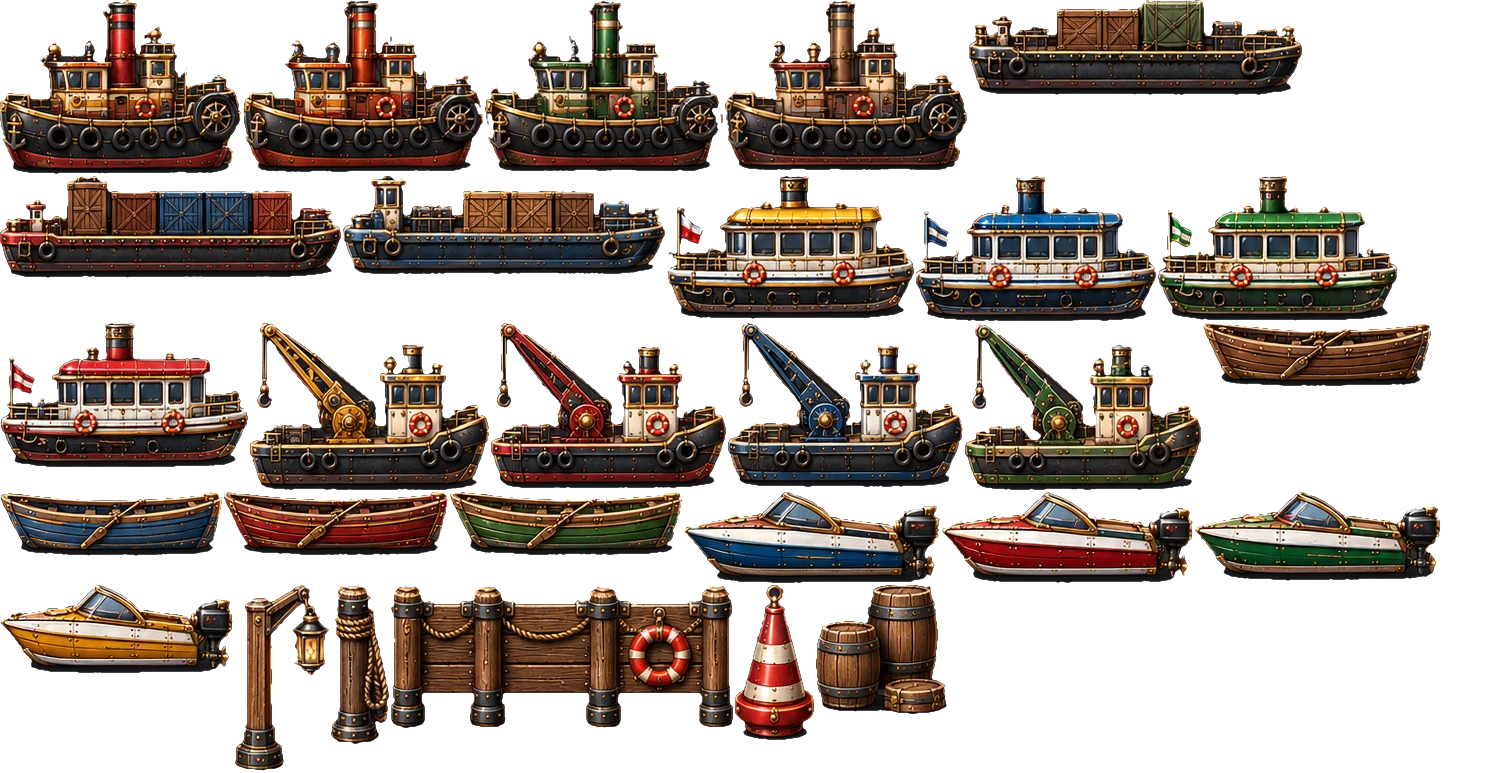
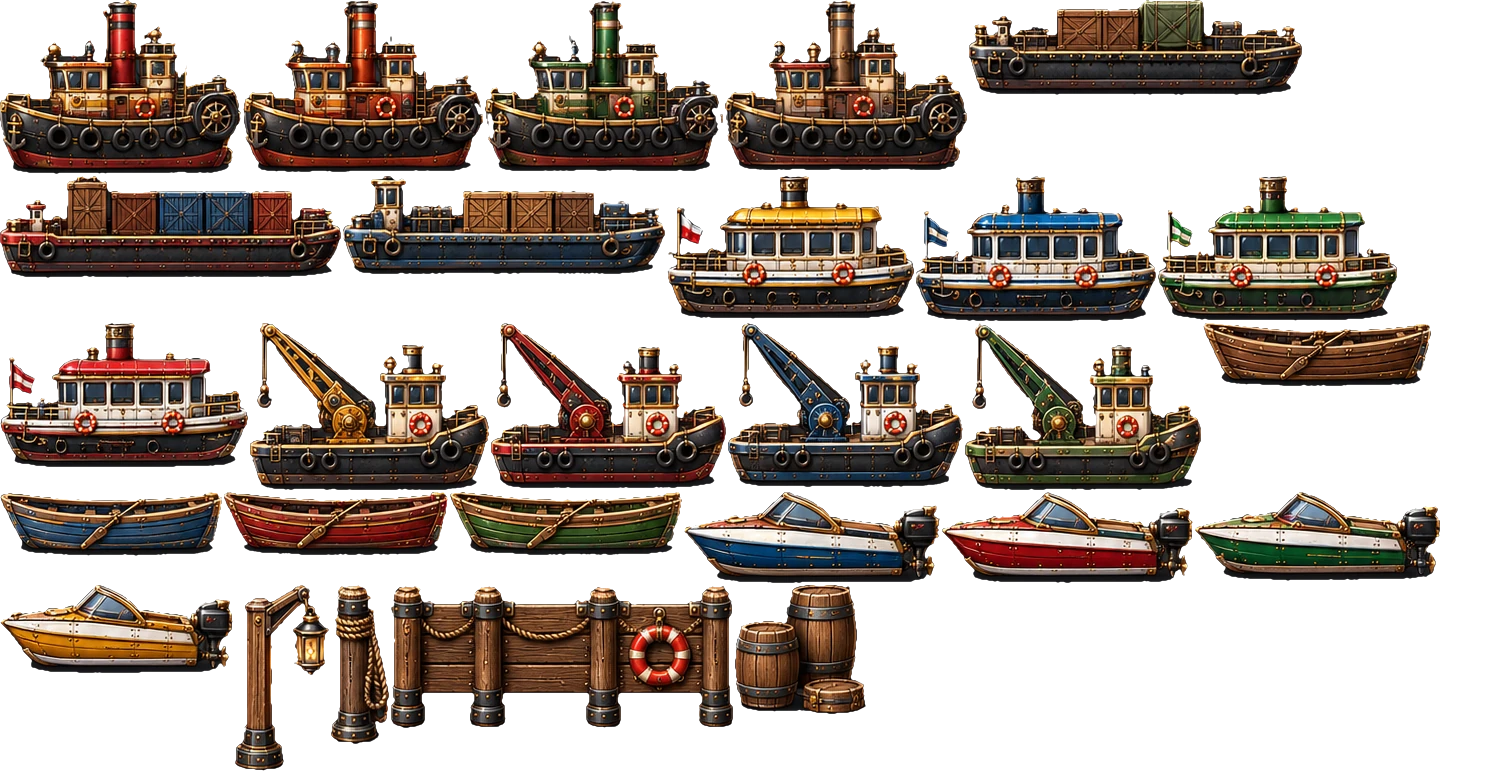
Add files via upload

Changed region(s): [[0.4907, 0.7451, 0.644, 0.9625]]

diff --git a/world-buildings.js b/world-buildings.js
@@ -140,7 +140,8 @@
     const base = (typeof obstacleSpeed === "number" && isFinite(obstacleSpeed) && obstacleSpeed > 0)
       ? obstacleSpeed
       : 220;
-    return base / 220;
+    const lm = (typeof window.__airborneLandScrollMul === "number") ? window.__airborneLandScrollMul : 1;   // eases the whole world to a stop for the landing
+    return base / 220 * lm;
   }
 
   // shared ground line — raised up from the very bottom edge so there's room
@@ -2291,7 +2292,7 @@
     ctx.stroke();
   }
   // ---- harbour traffic + dockside props (level2_boats.webp atlas) ----
-  const BOATS = {"tug0":[0,0,241,174],"tug1":[243,0,240,172],"tug2":[485,0,238,171],"tug3":[725,0,242,170],"barge0":[969,0,333,95],"barge1":[0,176,341,102],"barge2":[343,176,322,98],"ferry0":[667,176,247,143],"ferry1":[916,176,240,145],"ferry2":[1158,176,239,145],"ferry3":[0,323,248,144],"cargo0":[250,323,239,167],"cargo1":[491,323,235,165],"cargo2":[728,323,235,164],"cargo3":[965,323,236,167],"row0":[1203,323,228,63],"row1":[0,492,222,64],"row2":[224,492,224,63],"row3":[450,492,232,63],"speed0":[684,492,256,91],"speed1":[942,492,251,91],"speed2":[1195,492,245,89],"speed3":[0,585,233,88],"lamp":[235,585,94,186],"post":[331,585,58,159],"fence":[391,585,342,143],"buoy":[735,585,79,155],"crates":[816,585,131,129]};
+  const BOATS = {"tug0":[0,0,241,174],"tug1":[243,0,240,172],"tug2":[485,0,238,171],"tug3":[725,0,242,170],"barge0":[969,0,333,95],"barge1":[0,176,341,102],"barge2":[343,176,322,98],"ferry0":[667,176,247,143],"ferry1":[916,176,240,145],"ferry2":[1158,176,239,145],"ferry3":[0,323,248,144],"cargo0":[250,323,239,167],"cargo1":[491,323,235,165],"cargo2":[728,323,235,164],"cargo3":[965,323,236,167],"row0":[1203,323,228,63],"row1":[0,492,222,64],"row2":[224,492,224,63],"row3":[450,492,232,63],"speed0":[684,492,256,91],"speed1":[942,492,251,91],"speed2":[1195,492,245,89],"speed3":[0,585,233,88],"lamp":[235,585,94,186],"post":[331,585,58,159],"fence":[391,585,342,143],"crates":[735,585,131,129]};
   // kind: [names, speed (px/s relative to water), smoke x-fraction (or 0), weight]
   const BOAT_KINDS = [
     { n: ["tug0","tug1","tug2","tug3"], v: 26, sm: 0.5, w: 3 },
@@ -2299,10 +2300,10 @@
     { n: ["ferry0","ferry1","ferry2","ferry3"], v: 22, sm: 0.5, w: 3 },
     { n: ["cargo0","cargo1","cargo2","cargo3"], v: 18, sm: 0.6, w: 2 },
     { n: ["row0","row1","row2","row3"], v: 7, sm: 0, w: 2 },
-    { n: ["speed0","speed1","speed2","speed3"], v: 70, sm: 0, w: 2 }
+    { n: ["speed0","speed1","speed2","speed3"], v: 48, sm: 0, w: 2 }
   ];
   const l2Boats = [], l2Puffs = []; let l2BoatT = 0, l2BoatDock = null, l2BoatNext = 0;
-  function l2BoatScale() { return H * 0.0007; }
+  function l2BoatScale() { return H * 0.00063; }   // 10% smaller
   function l2PickBoat() {
     let tot = 0; for (const k of BOAT_KINDS) tot += k.w;
     let r = Math.random() * tot, kind = BOAT_KINDS[0];
@@ -2312,6 +2313,7 @@
   function l2BoatTick(t, top) {
     const dt = Math.min(0.05, Math.max(0, t - (l2BoatT || t))); l2BoatT = t;
     const e = l2Ext(), x0 = -e.l, x1 = W + e.r;
+    if (typeof bossActive !== "undefined" && bossActive) { l2Boats.length = 0; l2Puffs.length = 0; l2BoatNext = t + 4; l2BoatDock = dockX; return; }
     let scroll = 0;
     if (l2BoatDock !== null) { scroll = dockX - l2BoatDock; if (scroll < -50 || scroll > 200) scroll = 0; }
     l2BoatDock = dockX;
@@ -2335,7 +2337,7 @@
         b.sm -= dt;
         if (b.sm <= 0) {
           b.sm = 0.28 + Math.random() * 0.2;
-          const fx = b.dir > 0 ? b.kind.sm : 1 - b.kind.sm;
+          const fx = b.dir > 0 ? 1 - b.kind.sm : b.kind.sm;
           l2Puffs.push({ x: b.x - b.w / 2 + b.w * fx, y: 0, bo: b, dy: 0, r: 3 + Math.random() * 2, a: 0.5, vx: -b.dir * (8 + Math.random() * 6) - 6 });
         }
       }
@@ -2350,6 +2352,7 @@
     const img = images.l2_boats;
     if (!img || !img.naturalWidth) return;
     l2BoatTick(t, top);
+    if (typeof bossActive !== "undefined" && bossActive) return;
     const sc = l2BoatScale(), ratio = img.naturalWidth / 1500;
     for (const b of l2Boats) {
       const r = BOATS[b.name], sy = l2SurfY(b.x, t, top);
@@ -2357,7 +2360,7 @@
       b.cy = sy + Math.sin(b.ph * 1.4) * 0.8 + b.h * (b.name.indexOf('row') === 0 ? 0.3 : 0.2);   // hull sits down in the water; the water tint drawn after covers the submerged part
       b.sy = sy;
       ctx.save(); ctx.translate(b.x, b.cy); ctx.rotate(Math.atan(sl) * 0.8 + Math.sin(b.ph * 0.9) * 0.012);
-      ctx.scale(b.dir, 1);
+      ctx.scale(b.dir * (b.name.indexOf('barge') === 0 ? 1 : -1), 1);   // bow leads the way
       ctx.drawImage(img, r[0] * ratio, r[1] * ratio, r[2] * ratio, r[3] * ratio, -b.w / 2, -b.h, b.w, b.h);
       ctx.restore();
     }
@@ -2369,7 +2372,7 @@
       ctx.fillStyle = g; ctx.beginPath(); ctx.arc(p.x, by, p.r, 0, 6.2832); ctx.fill();
     }
   }
-  const DOCK_PROPS = [[0.06, "lamp"], [0.19, "crates"], [0.33, "post"], [0.46, "fence"], [0.6, "buoy"], [0.72, "lamp"], [0.83, "post"], [0.93, "crates"]];
+  const DOCK_PROPS = [[0.06, "lamp"], [0.19, "crates"], [0.33, "post"], [0.46, "fence"], [0.72, "lamp"], [0.83, "post"], [0.93, "crates"]];
   function l2DrawDockProps(sw, deckY, x0) {
     const img = images.l2_boats;
     if (!img || !img.naturalWidth) return;
@@ -2378,7 +2381,18 @@
       for (const dp of DOCK_PROPS) {
         const r = BOATS[dp[1]], w = r[2] * sc, h = r[3] * sc, px = x + dp[0] * sw;
         if (px + w < -e.l || px - w > W + e.r) continue;
-        ctx.drawImage(img, r[0] * ratio, r[1] * ratio, r[2] * ratio, r[3] * ratio, Math.round(px - w / 2), Math.round(deckY - h + H * 0.004), w, h);
+        const dxp = Math.round(px - w / 2), dyp = Math.round(deckY - h + H * 0.004);
+        ctx.drawImage(img, r[0] * ratio, r[1] * ratio, r[2] * ratio, r[3] * ratio, dxp, dyp, w, h);
+        if (dp[1] === "lamp") {   // blinking lantern glow
+          const tt = performance.now() / 1000, ph = dp[0] * 40;
+          const bl = 0.55 + 0.45 * Math.sin(tt * 3.1 + ph) * (Math.sin(tt * 0.9 + ph) > -0.6 ? 1 : 0.2) + (Math.random() < 0.02 ? 0.15 : 0);
+          const lx = dxp + w * 0.81, ly = dyp + h * 0.35, gr = h * 0.5 * (0.8 + 0.25 * bl);
+          ctx.save(); ctx.globalCompositeOperation = "lighter";
+          const lg = ctx.createRadialGradient(lx, ly, 0, lx, ly, gr);
+          lg.addColorStop(0, "rgba(255,225,140," + Math.min(0.9, 0.75 * bl).toFixed(3) + ")"); lg.addColorStop(0.35, "rgba(255,170,60," + (0.3 * bl).toFixed(3) + ")"); lg.addColorStop(1, "rgba(255,140,30,0)");
+          ctx.fillStyle = lg; ctx.beginPath(); ctx.arc(lx, ly, gr, 0, 6.2832); ctx.fill();
+          ctx.restore();
+        }
       }
     }
   }

diff --git a/bosses.js b/bosses.js
@@ -8866,6 +8866,7 @@ function drawFireballs() {
       return;
     }
     levelEndActive = true;
+    window.__airborneLandScrollMul = 1;
     levelEndPhase = "windDown";
     // Clear weather leftovers so level-3 rain/clouds don't show on the pad
     if (typeof stormCloudsDecorative !== "undefined") stormCloudsDecorative = [];
@@ -9068,6 +9069,7 @@ function drawFireballs() {
   }
 
   function finishLevelEndAndResume() {
+    window.__airborneLandScrollMul = 1;
     // Show world map between levels, then resume
     if (window.__airborneShowWorldMap) {
       window.__airborneShowWorldMap({
@@ -9129,7 +9131,7 @@ function drawFireballs() {
   }
 
   function updateLevelEnd(dt) {
-    if (!levelEndActive) return;
+    if (!levelEndActive) { window.__airborneLandScrollMul = 1; return; }
     levelEndTimer += dt;
 
     // Ambient steam while pad is on-screen
@@ -9189,11 +9191,21 @@ function drawFireballs() {
       levelEndPad.surfaceY = levelEndPad.y + levelEndPad.h * levelEndPad.deckFromTop;
       const deckCx = levelEndPad.x + levelEndPad.w * levelEndPad.deckCenterFrac;
 
-      // Scroll pad left until it reaches target dock position
-      if (levelEndPad.x > levelEndPad.targetX) {
-        levelEndPad.x -= (typeof obstacleSpeedScale === "function" ? 48 * obstacleSpeedScale() : 48) * dt; // ground speed — same as the world scroll
-        if (levelEndPad.x <= levelEndPad.targetX) {
-          levelEndPad.x = levelEndPad.targetX;
+      // The whole world (ground, parallax, pad) eases to a stop as the pad arrives — the blimp "comes in" rather than the level just scrolling on
+      if (levelEndPad.landP === undefined) {
+        levelEndPad.landP = 0; levelEndPad.startX = levelEndPad.x;
+        const D = Math.max(1, levelEndPad.x - levelEndPad.targetX);
+        const base0 = 48 * (typeof obstacleSpeedScale === "function" ? obstacleSpeedScale() : 1);
+        levelEndPad.landT = Math.max(4.5, Math.min(9, D / (0.882 * Math.max(10, base0))));
+      }
+      if (levelEndPad.landP < 1) {
+        const pp = levelEndPad.landP = Math.min(1, levelEndPad.landP + dt / levelEndPad.landT);
+        const D = levelEndPad.startX - levelEndPad.targetX;
+        const Fp = pp - pp * pp / 2 + 1.2 * (1 / Math.PI - (1 - pp) * Math.cos(Math.PI * pp) / Math.PI - Math.sin(Math.PI * pp) / (Math.PI * Math.PI));
+        levelEndPad.x = levelEndPad.startX - D * Fp / 0.882;
+        window.__airborneLandScrollMul = Math.max(0, (1 - pp) * (1 + 1.2 * Math.sin(Math.PI * pp)));
+        if (pp >= 1) {
+          levelEndPad.x = levelEndPad.targetX; window.__airborneLandScrollMul = 0;
           if (levelEndPhase === "approach") {
             levelEndPhase = "landing";
             levelEndTimer = 0;
@@ -9201,6 +9213,15 @@ function drawFireballs() {
             if (typeof sfxLandPrompt === "function") sfxLandPrompt();
           }
         }
+      }
+
+      // Glide slope: the blimp is eased down a shallow slope toward the deck as the pad draws near, nose pitching with the descent
+      if (levelEndPhase === "approach" || (levelEndPhase === "landing" && Math.abs(player.x - deckCx) >= levelEndPad.w * 0.3)) {
+        const restYs = levelEndPad.surfaceY - player.h * 0.42;
+        const slopeY = Math.max(H * 0.2, restYs - Math.max(0, deckCx - player.x) * 0.3);
+        const wantVy = Math.max(-60, Math.min(70, (slopeY - player.y) * 0.9));
+        player.vy += (wantVy - player.vy) * Math.min(1, dt * 1.8);
+        player.rotation += (Math.max(-0.12, Math.min(0.14, player.vy / 420)) - player.rotation) * Math.min(1, dt * 3);
       }
 
       // Move the blimp forward toward the landing X (unlock from fixed x)
@@ -10177,16 +10198,27 @@ function drawFireballs() {
     if (gameplayScore < mid || gameplayScore >= nb.threshold - 8) return;
     if (checkpointReached >= nb.num && checkpointGameplayScore >= mid) return; // already saved past the halfway mark
     ckRingSpawnedNum = nb.num;
-    spawnCheckpointPickup(nb.num);
-    const cp = checkpointPickup;
-    cp.kind = "ring";
-    cp.x = W + 120;
-    cp.y = H * (0.3 + Math.random() * 0.25);
-    cp.r = Math.min(H * 0.17, 90);   // half-height of the gate
-    cp.vx = Math.max(150, (typeof obstacleSpeed !== "undefined" ? obstacleSpeed : 199) * 0.9);
+    // a genuine training-level ring: same size, scroll, funnel/centre assist, rim bounce and pass glow
+    {
+      const rr = Math.min(48, W * 0.115), cyy = H * (0.3 + Math.random() * 0.3);
+      const ring = { type: "gold_ring", x: W + rr * 2, y: cyy - rr, w: rr * 2, h: rr * 2, r: rr, vx: 0, scored: false, collected: false,
+        spin: Math.random() * 6.28, bobPhase: Math.random() * 6.28, bobAmount: 6, speedMult: 0.993, isRing: true, isCheckpointRing: true,
+        checkpointNum: nb.num, ringNum: 0, animFrame: 0, animT: 0 };
+      if (window.__airborneObstacles) window.__airborneObstacles.push(ring);
+    }
     showBanner("CHECKPOINT AHEAD", 1800, "checkpoint");
   }
 
+  window.__airborneCheckpointPass = function (o) {
+    o.streakMult = 1;
+    checkpointReached = Math.max(checkpointReached, o.checkpointNum || 0);
+    checkpointScore = score;
+    checkpointGameplayScore = gameplayScore;
+    checkpointBossesDefeated = bossesDefeatedCount;
+    try { sfxPowerup(); } catch (e) {}
+    showBanner("CHECKPOINT SAVED!", 2000, "checkpoint");
+    if (health < MAX_HEALTH + MAX_BONUS_HEARTS) { health = Math.min(MAX_HEALTH + MAX_BONUS_HEARTS, health + 1); updateHealthDisplay(); }
+  };
   function updateCheckpointPickup(dt) {
     for (let i = checkpointBursts.length - 1; i >= 0; i--) {
       checkpointBursts[i].age += dt;

diff --git a/player-obstacles.js b/player-obstacles.js
@@ -2315,6 +2315,9 @@ window.__airborneRingDebug = false;
                 var quality = 1 - Math.min(1, absDy / Math.max(8, g.holeH));
                 o.passQuality = quality;
                 var streakInfo = null;
+                if (o.isCheckpointRing) {
+                  try { if (typeof window.__airborneCheckpointPass === "function") window.__airborneCheckpointPass(o); } catch (eCk) {}
+                } else {
                 try {
                   if (typeof window.__airborneOnRingCollect === "function") {
                     streakInfo = window.__airborneOnRingCollect(quality);
@@ -2332,6 +2335,7 @@ window.__airborneRingDebug = false;
                 try {
                   if (window.__airborneRuffOnEvent) window.__airborneRuffOnEvent("ring");
                 } catch (e2) {}
+                }
               }
             } else if (inRimBand && o.rimCool <= 0) {
               // Soft trampoline off metal — only if clearly outside hole
@@ -2589,7 +2593,7 @@ window.__airborneRingDebug = false;
       } else if (o.shockFall || o.electrified) {
         drop = !(o.y < (H || 700) + 100 && o.x > -80 && o.x < (W || 400) + 80);
       } else if ((o.isRing || o.type === "gold_ring") && o.x < -120) {
-        if (!o.passed && !o._missed) {
+        if (!o.passed && !o._missed && !o.isCheckpointRing) {
           o._missed = true;
           try { if (window.__airborneOnRingMiss) window.__airborneOnRingMiss(); } catch (eM) {}
         }

diff --git a/gamestate-ui.js b/gamestate-ui.js
@@ -584,7 +584,7 @@
     bonusActive = false;
     bonusType = null;
     bonusPending = false;
-    if (typeof levelEndActive !== "undefined") { levelEndActive = false; levelEndPhase = null; levelEndPad = null; levelEndFade = 0; }
+    window.__airborneLandScrollMul = 1; if (typeof levelEndActive !== "undefined") { levelEndActive = false; levelEndPhase = null; levelEndPad = null; levelEndFade = 0; }
     if (typeof stopWorldWindDown === "function") stopWorldWindDown();
     window.__airborneWorldFrozen = false;
     if (typeof resetHudFade === "function") resetHudFade();
@@ -861,7 +861,7 @@
     comboPopups = [];
 
     // Clear any level-end / bonus leftovers so a checkpoint resume is a clean level
-    if (typeof levelEndActive !== "undefined") { levelEndActive = false; levelEndPhase = null; levelEndPad = null; levelEndFade = 0; }
+    window.__airborneLandScrollMul = 1; if (typeof levelEndActive !== "undefined") { levelEndActive = false; levelEndPhase = null; levelEndPad = null; levelEndFade = 0; }
     window.__airborneLevelEndMapShown = false;
     try { if (window.__airbornePlatformReset) window.__airbornePlatformReset(); } catch (ePl) {}
     // Clear boss state
